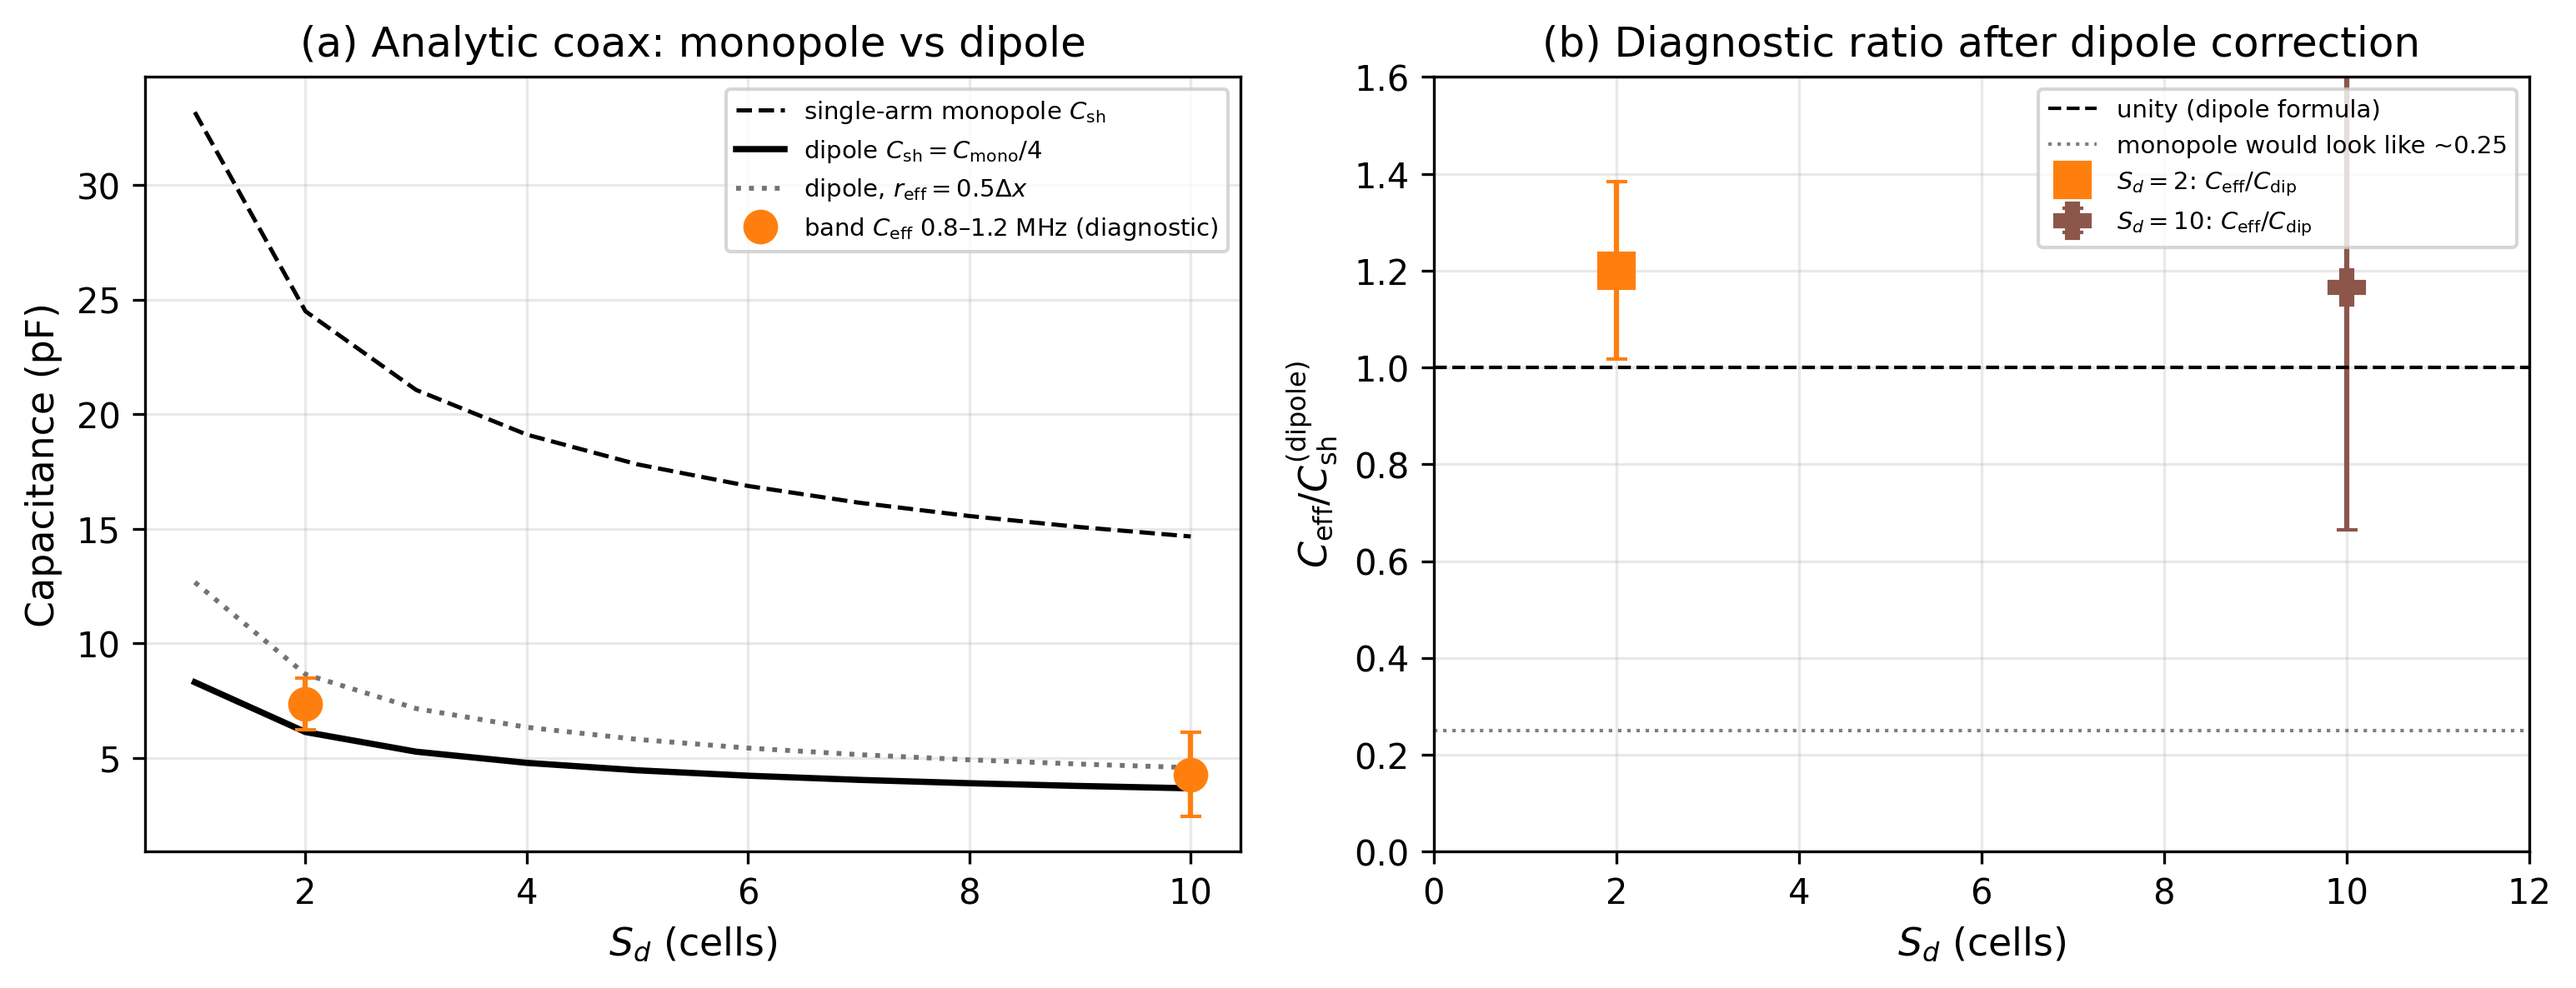
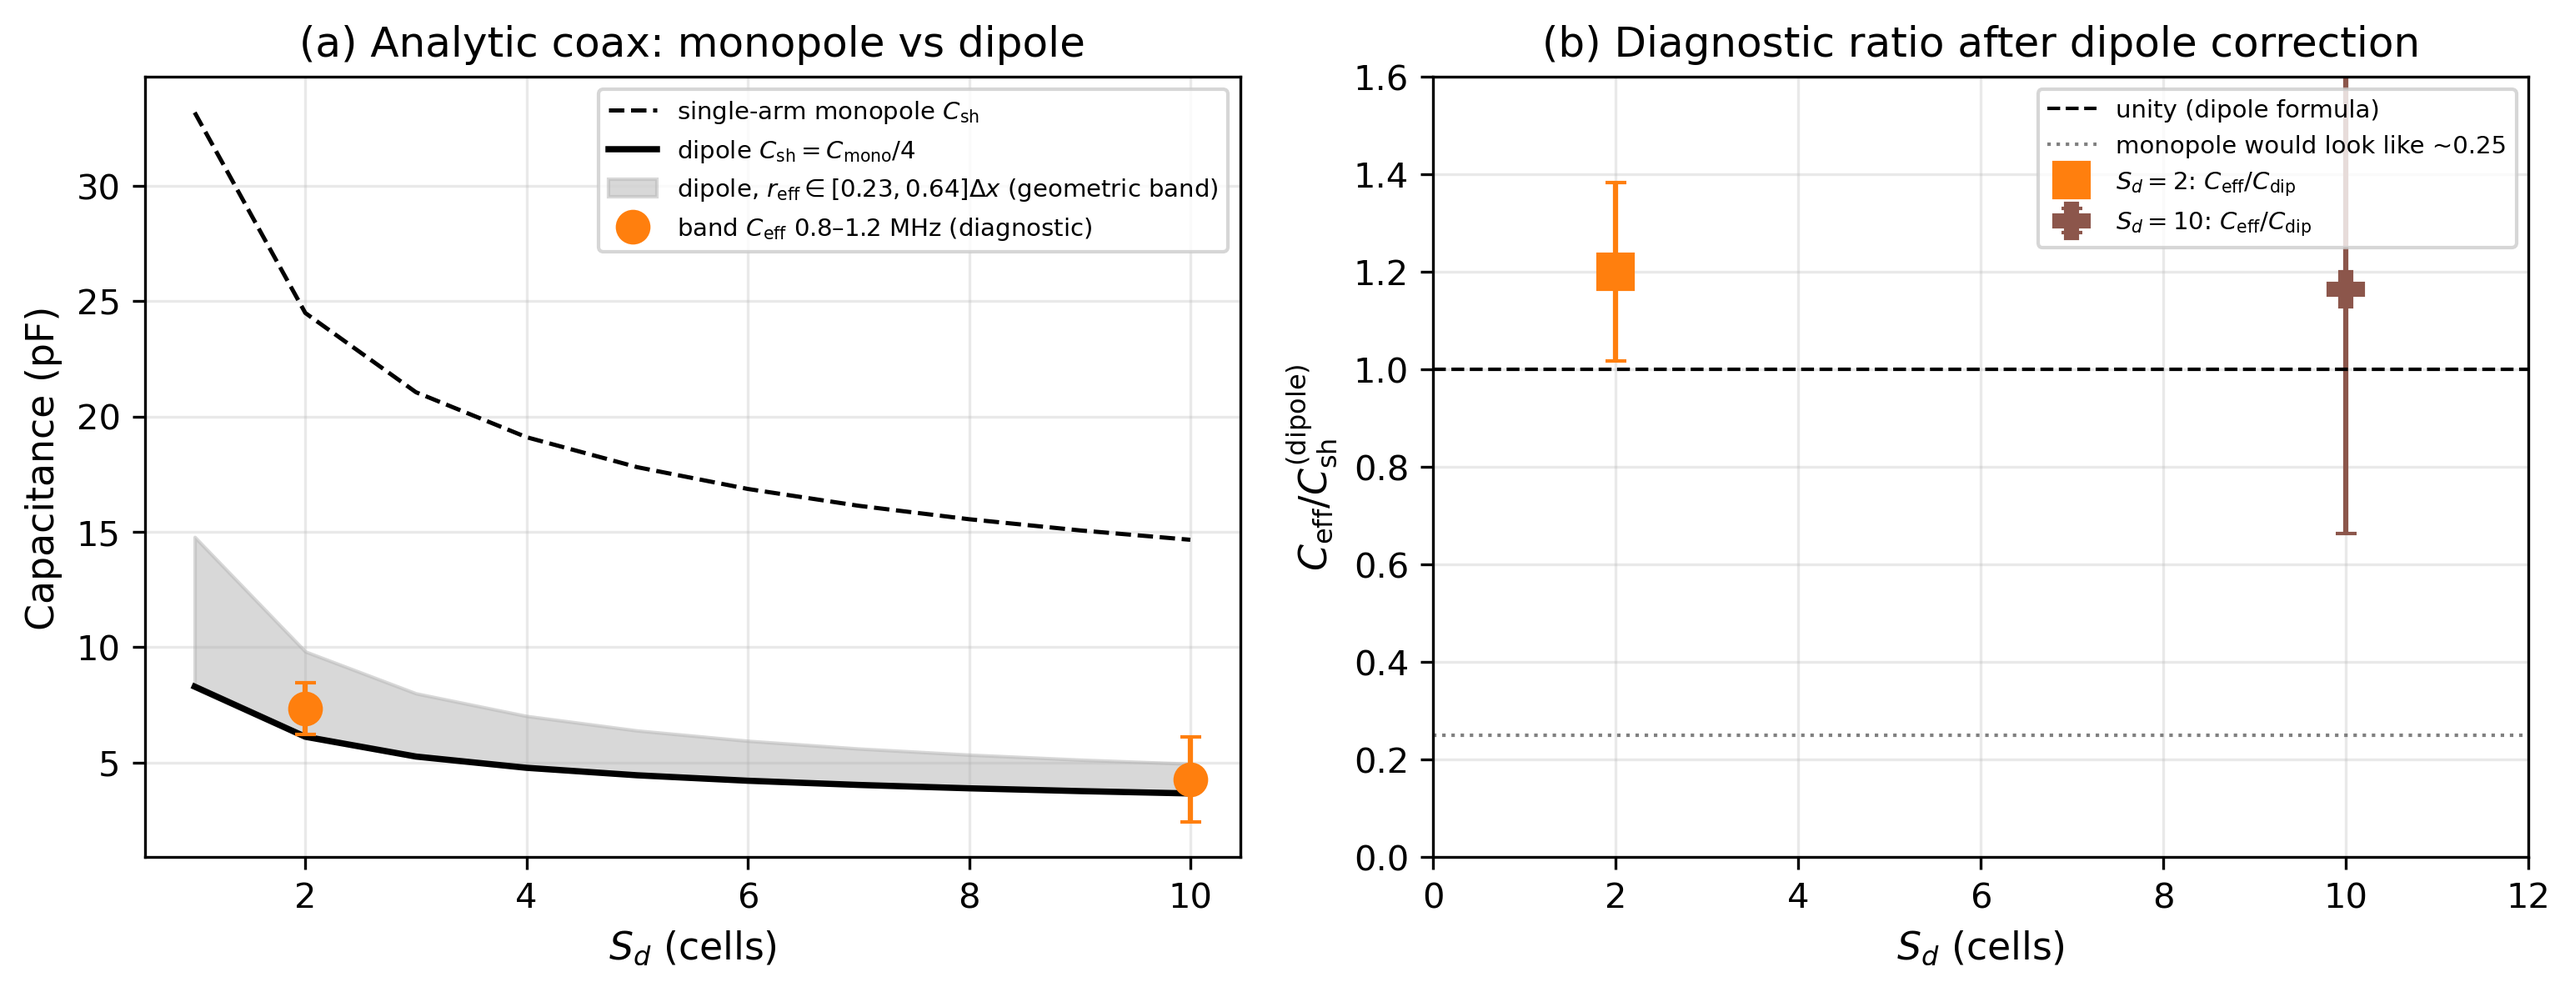
Paper 1: geometric r_eff derivation + widened sensitivity band
Derive r_eff candidates from the staircase wire geometry alone
(Holland 0.23dx, equal-area 0.56dx, equal-perimeter 0.64dx,
inscribed 0.5dx) -> principled band [0.23,0.64]dx, no simulation
input. Band means imply r_eff ~0.35/0.40dx, inside the band;
scatter maps to a wide implied range, so consistency, not a
measurement. Figure ceff_vs_sd panel (a) now shades the band
instead of the single 0.5dx dotted curve; text, caption, and
limitations updated. Local only.

diff --git a/projects/tu2008-sheath/paper1_static_sheath_capacitance/draft/paper1_radioscience.tex b/projects/tu2008-sheath/paper1_static_sheath_capacitance/draft/paper1_radioscience.tex
@@ -118,7 +118,7 @@ C_\mathrm{sh}^\mathrm{(dip)}=\frac{C_\mathrm{sh}^\mathrm{(mono)}}{4}
 =\frac{\pi\varepsilon_0 L}{2\ln\!\bigl(1+S_d\Delta x/r_\mathrm{eff}\bigr)}.
 \label{eq:coax_dip}
 \end{equation}
-We take \(r_\mathrm{eff}=0.23\Delta x\) as a Holland-type thin-wire estimate for the analytic comparison only \cite{holland1981}, and also show \(r_\mathrm{eff}=0.5\Delta x\) as a staircased-radius sensitivity. The quasi-static diagnostic average uses \(0.8\)--\(1.2\,\mathrm{MHz}\) (capacitive points only) for \(S_d=2,10\). Dense-band \(C_\mathrm{eff}\) near \(f_p\) is not treated as a quasi-static capacitor.
+We take \(r_\mathrm{eff}=0.23\Delta x\) as the Holland-type thin-wire value for the analytic comparison only \cite{holland1981}. The one-cell staircase wire also admits purely geometric radii: an equal-area circle (\(\pi r_\mathrm{eff}^2=\Delta x^2\)) gives \(r_\mathrm{eff}=\Delta x/\sqrt{\pi}\approx 0.56\Delta x\), an equal-perimeter circle (\(2\pi r_\mathrm{eff}=4\Delta x\)) gives \(r_\mathrm{eff}=2\Delta x/\pi\approx 0.64\Delta x\), and the inscribed circle gives \(0.5\Delta x\). Together these define a principled band \(r_\mathrm{eff}\in[0.23,0.64]\Delta x\) derived from the wire's shape alone, without reference to the simulation; Figure~\ref{fig:ceffsd}a shades the corresponding span of the dipole estimate. The quasi-static diagnostic average uses \(0.8\)--\(1.2\,\mathrm{MHz}\) (capacitive points only) for \(S_d=2,10\). Dense-band \(C_\mathrm{eff}\) near \(f_p\) is not treated as a quasi-static capacitor.
 
 \section{Results}
 
@@ -187,7 +187,7 @@ Table~\ref{tab:fres} and Figure~\ref{fig:fres} collect \(\mathrm{Im}\{Z\}\) \(+\
 
 \subsection{Capacitance diagnostic and circuit overlay}
 
-Figure~\ref{fig:cefff} shows \(C_\mathrm{eff}(f)\) from equation~(\ref{eq:ceff}). The quantity is not flat in the \(0.8\)--\(1.2\,\mathrm{MHz}\) window: for \(S_d=10\) the band scatter is \(\approx 43\%\) of the mean. Band means are therefore diagnostics, not high-precision capacitors (Table~\ref{tab:ceff}). Figure~\ref{fig:ceffsd} compares those means with monopole and dipole coax formulae. After the dipole correction, \(C_\mathrm{eff}/C_\mathrm{sh}^\mathrm{(dip)}\approx 1.20\) (\(S_d=2\)) and \(1.17\) (\(S_d=10\)). The comparison is conditional on the effective wire radius rather than tuned by it: across \(r_\mathrm{eff}\in[0.23,0.5]\Delta x\) the dipole estimate spans \(6.12\)--\(8.64\,\mathrm{pF}\) at \(S_d=2\) and \(3.66\)--\(4.57\,\mathrm{pF}\) at \(S_d=10\) (Figure~\ref{fig:ceffsd}a, dotted curve), and both band means fall inside that band. The monopole formula yields the previously reported factor \(\approx 0.3\) and overstates the analytic capacitance by four.
+Figure~\ref{fig:cefff} shows \(C_\mathrm{eff}(f)\) from equation~(\ref{eq:ceff}). The quantity is not flat in the \(0.8\)--\(1.2\,\mathrm{MHz}\) window: for \(S_d=10\) the band scatter is \(\approx 43\%\) of the mean. Band means are therefore diagnostics, not high-precision capacitors (Table~\ref{tab:ceff}). Figure~\ref{fig:ceffsd} compares those means with monopole and dipole coax formulae. After the dipole correction, \(C_\mathrm{eff}/C_\mathrm{sh}^\mathrm{(dip)}\approx 1.20\) (\(S_d=2\)) and \(1.17\) (\(S_d=10\)). The comparison is conditional on the effective wire radius rather than tuned by it: across the geometric band \(r_\mathrm{eff}\in[0.23,0.64]\Delta x\) the dipole estimate spans \(6.12\)--\(9.81\,\mathrm{pF}\) at \(S_d=2\) and \(3.66\)--\(4.95\,\mathrm{pF}\) at \(S_d=10\) (Figure~\ref{fig:ceffsd}a, shaded band), and both band means fall inside. Inverting the formula, the two means imply \(r_\mathrm{eff}\approx 0.35\Delta x\) (\(S_d=2\)) and \(0.40\Delta x\) (\(S_d=10\))---between the Holland thin-wire value and the equal-area staircase value---but the \(\approx 43\%\) band scatter at \(S_d=10\) maps through the logarithm to a wide implied range, so this is consistency of the simulation with the wire geometry, not a measurement of \(r_\mathrm{eff}\). The monopole formula yields the previously reported factor \(\approx 0.3\) and overstates the analytic capacitance by four.
 
 \begin{table}
 \caption{Diagnostic band-averaged \(C_\mathrm{eff}\) (\(0.8\)--\(1.2\,\mathrm{MHz}\)) versus monopole and dipole coaxial references (\(r_\mathrm{eff}=0.23\Delta x\)).}
@@ -211,7 +211,7 @@ Figure~\ref{fig:cefff} shows \(C_\mathrm{eff}(f)\) from equation~(\ref{eq:ceff})
 
 \begin{figure}
 \noindent\includegraphics[width=\textwidth]{figures/ceff_vs_sd.png}
-\caption{(a)~Monopole coax (dashed), dipole coax (solid), and staircased-radius dipole sensitivity (dotted), with diagnostic low-frequency \(C_\mathrm{eff}\) means. (b)~Ratio to the dipole formula is order unity (\(\approx 1.2\)).}
+\caption{(a)~Monopole coax (dashed), dipole coax (solid), and the geometric \(r_\mathrm{eff}\in[0.23,0.64]\Delta x\) sensitivity band (shaded), with diagnostic low-frequency \(C_\mathrm{eff}\) means. (b)~Ratio to the dipole formula is order unity (\(\approx 1.2\)).}
 \label{fig:ceffsd}
 \end{figure}
 
@@ -236,7 +236,7 @@ Thickening the jacket simultaneously (i) removes plasma dielectric near the wire
 
 \subsection{Analytic coax: monopole versus dipole}
 
-Equation~(\ref{eq:coax_mono}) is the cylindrical coax limit used since Mlodnosky and Garriott and in later Balmain-era jacket and insulated-antenna models \cite{mlodnosky1962,galejs1966}. It describes a \emph{single} metal arm relative to exterior plasma. Applying that formula unchanged to a center-fed dipole of total length \(L\) overpredicts feed capacitance by a factor of four. With equation~(\ref{eq:coax_dip}), the diagnostic ratios become order unity, and both band means fall inside the \(r_\mathrm{eff}\in[0.23,0.5]\Delta x\) sensitivity band. Any residual offset is consistent with staircasing, plasma reactance remaining inside the mixed \(C_\mathrm{eff}\), and the electrically small domain; the estimate is a consistency check, not a fitted parameter.
+Equation~(\ref{eq:coax_mono}) is the cylindrical coax limit used since Mlodnosky and Garriott and in later Balmain-era jacket and insulated-antenna models \cite{mlodnosky1962,galejs1966}. It describes a \emph{single} metal arm relative to exterior plasma. Applying that formula unchanged to a center-fed dipole of total length \(L\) overpredicts feed capacitance by a factor of four. With equation~(\ref{eq:coax_dip}), the diagnostic ratios become order unity, and both band means fall inside the geometric \(r_\mathrm{eff}\in[0.23,0.64]\Delta x\) band, across which the estimate itself moves by \(\sim 35\)--\(60\%\). Any residual offset is consistent with staircasing, plasma reactance remaining inside the mixed \(C_\mathrm{eff}\), and the electrically small domain; the estimate is a consistency check, not a fitted parameter.
 
 \subsection{Scope: what a prescribed jacket represents}
 
@@ -249,7 +249,7 @@ A prescribed step jacket is a controlled geometry, not a sheath solution. It rep
 \item Intermediate widths \(S_d=4,6,8\) lack low-frequency CW; \(f_\mathrm{res}\) for those cases is only an upper bound. Denser tones around \(0.55\)--\(0.70\,\mathrm{MHz}\) for \(S_d=2\) are also open.
 \item \(C_\mathrm{eff}\) mixes sheath and plasma reactance and is frequency-dependent; it is a diagnostic, not a de-embedded gap capacitance.
 \item Absolute \(Z\) and \(C_\mathrm{eff}\) may include box/ABC contributions on this electrically small domain.
-\item Absolute coax comparison still depends on \(r_\mathrm{eff}\); we report Holland-like \(0.23\Delta x\) and staircased \(0.5\Delta x\).
+\item Absolute coax comparison still depends on \(r_\mathrm{eff}\); we report the geometric band \(r_\mathrm{eff}\in[0.23,0.64]\Delta x\) (Holland thin-wire to equal-perimeter staircase).
 \item Campaigns here are effectively unmagnetized; PIP upper-hybrid markers require \(B\neq 0\).
 \item Cold fluid \(T=0\) has no thermal Debye length; physical-sheath comparisons use ionospheric \(T_e\) only as context.
 \end{enumerate}

diff --git a/projects/tu2008-sheath/paper1_static_sheath_capacitance/analysis/make_ceff_products.py b/projects/tu2008-sheath/paper1_static_sheath_capacitance/analysis/make_ceff_products.py
@@ -34,6 +34,7 @@ DX = 0.04
 L = 25 * DX  # total dipole length (m)
 R_EFF = 0.23 * DX
 R_STAIR = 0.5 * DX
+R_GEOM_HI = 0.64 * DX  # equal-perimeter circle for the 1x1-cell staircase wire
 N_MIN_RATIO = 1e-6
 N0_BULK = 4.0 * math.pi**2 * (2e6) ** 2 * 9.1066e-31 * EPS0 / (1.6021917e-19) ** 2
 OUTLIER = {(0, 1_500_000)}
@@ -458,13 +459,14 @@ def fig_ceff_sd(lowf_means):
         lw=1.8,
         label=r"dipole $C_{\mathrm{sh}}=C_{\mathrm{mono}}/4$",
     )
-    ax.plot(
+    ax.fill_between(
         s_cont,
-        [coax_dipole(s, R_STAIR) * 1e12 for s in s_cont],
-        color="0.45",
-        ls=":",
-        lw=1.4,
-        label=r"dipole, $r_{\mathrm{eff}}=0.5\Delta x$",
+        [coax_dipole(s) * 1e12 for s in s_cont],
+        [coax_dipole(s, R_GEOM_HI) * 1e12 for s in s_cont],
+        color="0.72",
+        alpha=0.55,
+        zorder=0,
+        label=r"dipole, $r_{\mathrm{eff}}\in[0.23,0.64]\Delta x$ (geometric band)",
     )
     if lowf_means:
         ax.errorbar(
